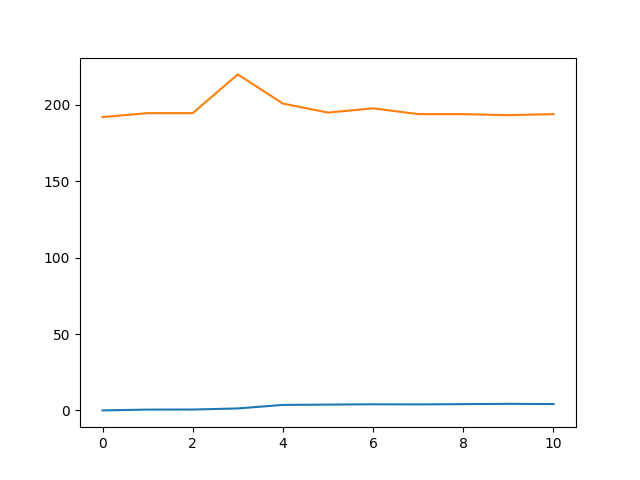
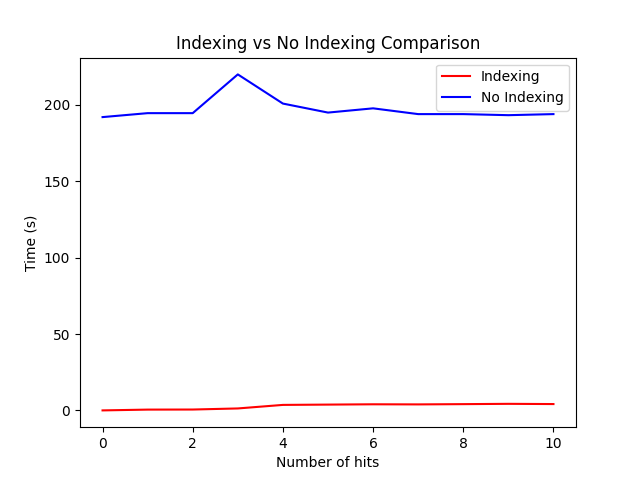
Last commit.

diff --git a/templates/visualize.html b/templates/visualize.html
@@ -33,7 +33,7 @@
                 <h2>VSM vs TED Comparison</h2>
                 <p>This graph will show the difference in speed performance when comparing both VSM and TED approaches. The plot was generated using <em><i>Matplotlib</i></em>.
                 </p>
-                <a href="#" class="icon-link">
+                <a href="Figure2.png" class="icon-link">
               View
               <svg class="bi" width="1em" height="1em"><use xlink:href="#chevron-right"></use></svg>
             </a>

diff --git a/plot.py b/plot.py
@@ -2,13 +2,59 @@ import matplotlib.pyplot as plt
 import numpy as np
 
 # With Indexing
-xpoints_indexing = np.array([0,1,2,3,4,5,6,7,8,9,10])
-ypoints_indexing=np.array([0.001,0.52,0.57,1.28,3.6,3.8,4,3.93,4.10,4.3,4.15])
+# xpoints_indexing = np.array([0,1,2,3,4,5,6,7,8,9,10])
+# ypoints_indexing=np.array([0.001,0.52,0.57,1.28,3.6,3.8,4,3.93,4.10,4.3,4.15])
 
-# Without Indexing
-xpoints = np.array([0,1,2,3,4,5,6,7,8,9,10])
-ypoints = np.array([192.04,194.63,194.63,220,200.9,195,197.78,194,194,193.3,194])
+# # Without Indexing
+# xpoints = np.array([0,1,2,3,4,5,6,7,8,9,10])
+# ypoints = np.array([192.04,194.63,194.63,220,200.9,195,197.78,194,194,193.3,194])
 
-plt.plot(xpoints_indexing,ypoints_indexing)
-plt.plot(xpoints,ypoints)
+# plt.plot(xpoints_indexing,ypoints_indexing,color='r',label="Indexing")
+# plt.plot(xpoints,ypoints,color='b',label="No Indexing")
+# plt.title("Indexing vs No Indexing Comparison")
+# plt.xlabel("Number of hits")
+# plt.ylabel("Time (s)")
+# # plt.show()
+
+# VSM vs TED text
+#!10: VSM 0.0, TED 0.02
+#!50: 0.007    0.47
+#!100: 0.01  1.65
+#!500: 0.04  41.2
+
+figure, axis = plt.subplots(1,2)
+
+figure.suptitle("TED vs VSM comparison")
+
+xpts = np.array([10,50,100,500])
+
+ypts1 = np.array([0.0,0.007,0.01,0.04])
+ypts2 = np.array([0.02,0.47,1.65,41.2])
+
+axis[0].plot(xpts,ypts1, color='r', label='VSM')
+axis[0].plot(xpts,ypts2, color='b', label='TED')
+axis[0].set_title(".txt input")
+axis[0].set(xlabel= "Words", ylabel="Time (s)")
+
+
+
+ypts11 = np.array([0.007,0.04,0.09,0.24])
+ypts22 = np.array([0.04,0.16,0.65,14.6])
+
+axis[1].plot(xpts,ypts11, color='r',label="VSM")
+axis[1].plot(xpts,ypts22,color='b', label='TED')
+axis[1].set_title(".xml input")
+axis[1].set(xlabel= "Nodes", ylabel="Time (s)")
+
+
+#VSM vs TED xml
+#!10: 0.007 0.04
+#!50: 0.04  0.16
+#!100: 0.09     0.6
+#!500: 0.24     14.6
+
+
+
+
+plt.legend()
 plt.show()

diff --git a/app.py b/app.py
@@ -238,7 +238,7 @@ def speak():
     if request.method == "POST":
         query = audio.speech2text()
         print(query)
-    return render_template("search.html",query="",lenresults=0,results={},time="",qry=query)
+    return render_template("search.html",query="",lenresults=0,results={},time="",qry=query or "")
 
 @app.route("/visualize.html",methods=["GET"])
 def visualize():

diff --git a/audio.py b/audio.py
@@ -9,6 +9,9 @@ def speech2text():
     with sr.Microphone() as source:
         audio_data = r.record(source, duration=3)
         print("Recognizing...")
-        text = r.recognize_google(audio_data)
-        return text
+        try:
+            text = r.recognize_google(audio_data)
+        except:
+            text = None
+        return text or None
 

diff --git a/utils.py b/utils.py
@@ -109,7 +109,6 @@ def WF(c1, c2):
     c1 = clean_text(c1)
     c2 = clean_text(c2)
 
-    if c1==c2: return 1
     c1 = list(c1)
     c2 = list(c2)
     # WF
